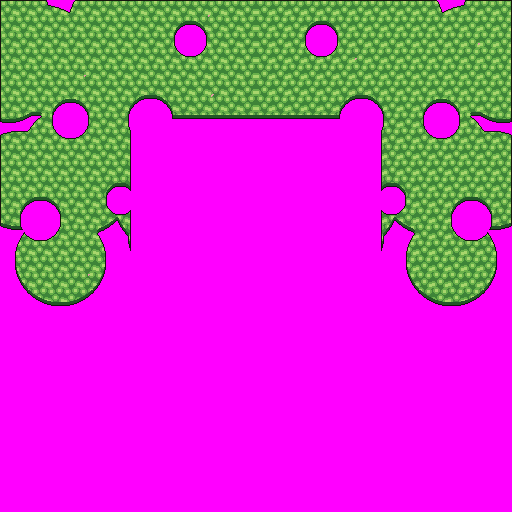
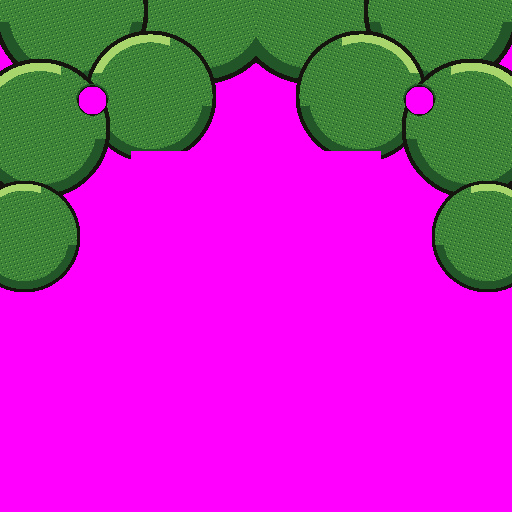
v0.16.0 art: a Deku-style face, puffy leaves, the doorway shut
Caleb's review: the leaves and the face looked weird; think Great Deku Tree.
The healed trunk's opening grows shut and the doorway into the hollow closes
for good. Bark's face is big and bold: deep hollow eyes with a glint, heavy
brows, a thick nose, a drooping mossy moustache; the camera in the west looks
up a little more so it fits. The leaves are big rounded puffs with outlines,
a light rim on top and shadow underneath. The dead tree loses its rot holes,
which read as eyes before the fight.

diff --git a/rootflow/tools/make_art.py b/rootflow/tools/make_art.py
@@ -1512,12 +1512,11 @@ def make_trunk():
             for x in range(x0 + (y - y0) // 9, x0 + w + (y - y0) // 9):
                 if px[y][x]:
                     px[y][x] = 12 if (x + y) % 7 else 9
-    for cx, cy, rx, ry in ((214, 150, 10, 14), (322, 236, 8, 11)):
-        blot(px, cx, cy, rx + 3, ry + 3, 11, 1)
-        blot(px, cx, cy, rx, ry, 10, 10)
-        for y in range(int(cy + ry), int(cy + ry + 14)):    # ooze running down
-            if px[y][cx]:
-                px[y][cx] = px[y][cx + 1] = 11
+    for x0, y0 in ((214, 140), (322, 220)):              # rot oozing down the bark (no holes: they read as eyes)
+        for y in range(y0, y0 + 40):
+            for x in (x0 + (y - y0) // 13, x0 + 1 + (y - y0) // 13):
+                if px[y][x]:
+                    px[y][x] = 11 if (y - y0) % 9 else 10
     for cx, cy, w in ((168, 104, 12), (288, 176, 12)):
         shelf(px, cx, cy, w)
     for y in range(BASE_Y - 30, S):                      # the opening at its foot
@@ -1635,7 +1634,7 @@ ALIVE_PAL = [
     (236, 150, 170),  # 14 blossom
     (0, 0, 0),
 ]
-FACE_C = (256, 246)                                        # Bark's eyes, just above the opening (his mouth)
+FACE_C = (256, 220)                                        # Bark's eyes (his face runs down to the trunk's base)
 
 
 def make_tree_alive():
@@ -1652,25 +1651,43 @@ def make_tree_alive():
                 px[y][x] = 2
             elif c == 13:
                 px[y][x] = 12
+    for y in range(BASE_Y - 40, 512):                         # the opening grows shut: bark again
+        for x in range(TREE_CX - 30, TREE_CX + 30):
+            if px[y][x] in (7, 1) and abs(x - TREE_CX) < 26 and y < trunk_bottom(x) - 2:
+                px[y][x] = bark_color(x, y)
     fx, fy = FACE_C
-    for sx in (-1, 1):                                       # the eyes: deep knotholes, looking out
-        ex = fx + sx * 52
-        for y in range(fy - 13, fy + 14):
-            for x in range(ex - 16, ex + 17):
-                d = ((x - ex) / 15) ** 2 + ((y - fy) / 11) ** 2
+    for sx in (-1, 1):
+        ex = fx + sx * 50
+        for y in range(fy - 16, fy + 17):                    # big, deep, hollow eye sockets
+            for x in range(ex - 28, ex + 29):
+                u, v = (x - ex) / 27, (y - fy) / 14
+                d = u * u + (v + 0.3 * u * sx) ** 2          # drooping toward the outside
                 if d < 1:
-                    px[y][x] = 1 if d > 0.78 else 13 if d > 0.28 else 1
-        for y in range(fy - 3, fy + 5):                      # pupils, a little to the middle
-            for x in range(ex - sx * 4 - 3, ex - sx * 4 + 4):
+                    px[y][x] = 1 if d > 0.85 else 2 if d > 0.7 and v < 0 else 7
+        for y in range(fy - 3, fy + 3):                      # a glint deep inside
+            for x in range(ex - sx * 6 - 2, ex - sx * 6 + 3):
+                px[y][x] = 13
+        for x in range(ex - 34, ex + 35):                    # long, heavy brows
+            top = fy - 28 + (sx * (ex - x)) // 9          # only a little lower toward the middle: kinder
+            for t in range(11):
+                y = top + t
+                px[y][x] = 1 if t in (0, 10) else 6 if t < 3 else 4 if t < 6 else 3 if t < 9 else 2
+    for y in range(fy - 10, fy + 54):                          # a thick nose, wider toward its tip
+        w = 8 + max(0, y - fy - 14) // 4
+        for x in range(fx - w, fx + w + 1):
+            px[y][x] = 1 if abs(x - fx) >= w else 6 if x < fx - w // 2 else 4 if x < fx + w // 3 else 2
+    for sx in (-1, 1):                                         # nostrils
+        for y in range(fy + 48, fy + 53):
+            for x in (fx + sx * 9, fx + sx * 10):
                 px[y][x] = 1
-        for x in range(ex - 19, ex + 20):                    # level brows: heavy, not angry
-            for t in range(4):
-                y = fy - 16 - t + (1 if sx * (x - ex) > 10 else 0)
-                px[y][x] = 5 if t == 0 else 2
-    for y in range(BASE_Y - 34, BASE_Y - 22):                # a lip of bark over the opening: his mouth
-        for x in range(TREE_CX - 30, TREE_CX + 31):
-            if abs(x - TREE_CX) < 30 - (BASE_Y - 22 - y):
-                px[y][x] = 4 if y < BASE_Y - 28 else 2
+    for y in range(fy + 44, fy + 92):                          # a bushy, mossy moustache, drooping at the ends
+        for x in range(fx - 74, fx + 75):
+            u = (x - fx) / 74
+            top = fy + 52 - int((1 - u * u) * 6) + int(abs(u) * 10)
+            bot = fy + 66 + int(abs(u) ** 1.5 * 22)
+            if top <= y <= bot:
+                edge = y == top or y == bot or abs(u) > 0.98
+                px[y][x] = 1 if edge else 9 if ((x % 8) // 2 + y) % 4 == 0 else 12   # repeats every 8 px
     out = Image.new("P", (512, 512), 0)
     out.putpalette([c for rgb in ALIVE_PAL for c in rgb])
     out.putdata([v for row in px for v in row])
@@ -1697,50 +1714,52 @@ def leaf_texture(x, y):
 
 
 def make_leaves():
-    """The healed tree's leaves: a solid, textured mass over the top and down both sides, with an
-    irregular lobed outline and several holes where you see the ground. Left half mirrored."""
-    import math
+    """The healed tree's crown, like the Great Deku Tree's: big rounded puffs of leaves overlapping
+    (upper ones first, each later puff drawn over with its own outline), a flat green body with a
+    few leaf flecks (repeating every 16 px), a light rim on top and a shadow band underneath, and
+    several holes you see the ground through. Left half drawn; the right half mirrors it."""
     S = 512
     px = [[0] * S for _ in range(S)]
-    rng = random.Random(4646)
-    lobes = []
-    for _ in range(60):                                       # the leaf mass, as overlapping lobes
-        a = rng.uniform(math.pi * 0.5, math.pi * 1.25)
-        r = rng.uniform(40, 250)
-        x = TREE_CX + r * math.cos(a)
-        y = 70 + r * math.sin(a) * 0.9
-        lobes.append((x, y, rng.uniform(28, 52)))
-    lobes += [(TREE_CX - 40, 40, 70), (TREE_CX - 130, 30, 60), (40, 60, 56), (20, 180, 50), (60, 260, 46)]
-    holes = [(150, 120, 22), (70, 120, 18), (190, 40, 16), (40, 220, 20), (120, 200, 14)]
-    for y in range(S):
-        for x in range(256):
-            inside = any((x - lx) ** 2 + (y - ly) ** 2 < lr * lr for lx, ly, lr in lobes)
-            if not inside or y > 330:
-                continue
-            if x > TREE_CX - TRUNK_HALF - 6 and y > 118:            # keep Bark's face in view
-                continue
-            if any((x - hx) ** 2 + (y - hy) ** 2 < hr * hr for hx, hy, hr in holes):
-                continue
-            px[y][x] = leaf_texture(x, y)
-    for y in range(S):                                        # an outline and shade at every edge
-        for x in range(256):
-            if not px[y][x]:
-                continue
-            edge = any(not (0 <= x + dx < 256 and 0 <= y + dy < S) or px[y + dy][x + dx] == 0
-                       for dx, dy in ((1, 0), (-1, 0), (0, 1), (0, -1)) if not (x + dx == 256))
-            if edge:
-                px[y][x] = 1
-    for y in range(S - 1, 0, -1):                             # a darker underside on each lobe
-        for x in range(256):
-            if px[y][x] in (9, 10, 11) and y + 3 < S and px[y + 3][x] in (0, 1):
-                px[y][x] = 8
+    puffs = [   # (x, y, radius), left half; drawn top to bottom
+        (200, 4, 80), (70, 10, 78),
+        (150, 96, 66), (40, 128, 70),
+        (24, 236, 56),
+    ]
+    for cx, cy, r in sorted(puffs, key=lambda p: p[1]):
+        for y in range(max(0, cy - r), min(S, cy + r + 1)):
+            for x in range(max(0, cx - r), min(256, cx + r + 1)):
+                d = ((x - cx) ** 2 + (y - cy) ** 2) ** 0.5 / r
+                if d >= 1:
+                    continue
+                if x > TREE_CX - TRUNK_HALF - 6 and y > 150:          # keep Bark's face in view
+                    continue
+                ny = (y - cy) / r
+                nx = (x - cx) / r
+                if d > 0.94:
+                    c = 1
+                elif d > 0.8 and ny > 0.15:
+                    c = 8                                            # shadow under the puff
+                elif d > 0.82 and ny < -0.35 and nx < 0.3:
+                    c = 11                                           # light along the top
+                else:
+                    f = ((x % 16) * 5 + (y % 16) * 3) % 17
+                    c = 10 if f == 0 else 8 if f == 9 else 9
+                px[y][x] = c
+    for hx, hy, hr in ((92, 100, 14),):                                # a hole
+        for y in range(hy - hr - 2, hy + hr + 3):
+            for x in range(hx - hr - 2, hx + hr + 3):
+                if not (0 <= x < 256 and 0 <= y < S) or not px[y][x]:
+                    continue
+                d = ((x - hx) ** 2 + (y - hy) ** 2) ** 0.5
+                if d < hr:
+                    px[y][x] = 0
+                elif d < hr + 1.2:
+                    px[y][x] = 1
+                elif d < hr + 3 and y < hy:
+                    px[y][x] = 8                                     # the hole's shadowed upper edge
     for y in range(S):
         for x in range(256):
             px[y][mirror_x(x)] = px[y][x]
-    for k in range(18):                                       # a few blossoms (not mirrored)
-        bx, by = rng.randrange(20, 492), rng.randrange(10, 300)
-        if px[by][bx] in (9, 10):
-            px[by][bx] = px[by][bx + 1] = px[by + 1][bx] = 14
     img = Image.new("P", (S, S), 0)
     img.putpalette([c for rgb in ALIVE_PAL for c in rgb])
     img.putdata([v for row in px for v in row])

diff --git a/rootflow/src/main.c b/rootflow/src/main.c
@@ -2487,7 +2487,7 @@ static void open_door(void) {
 }
 
 // The healed tree's whole region turns green at once: dead ground grows grass and flowers, dead
-// trees and stumps grow back, the brambles are gone.
+// trees and stumps grow back, the brambles are gone, and the opening into the hollow closes.
 static void revive_world(void) {
     u8 *m = maps[WEST];
     for (s32 i = 0; i < MAP_W * MAP_H; i++) {
@@ -2499,6 +2499,8 @@ static void revive_world(void) {
         else if (t == CHEST_OPEN) m[i] = CHEST_OPEN_GRASS;
         else if (t == WRECK) m[i] = WRECK_GRASS;
     }
+    for (s32 y = DOOR_Y; y <= DOOR_Y + 1; y++)                // the opening grows shut (Caleb: no way back in)
+        for (s32 x = DOOR_X; x <= DOOR_X + 1; x++) m[y * MAP_W + x] = TRUNK_BLOCK;
 }
 
 // Gloomheart beaten: out of the hollow, the tree shakes, wakes green, Bark lives in it again and
@@ -2583,7 +2585,7 @@ static void check_spring(void) {
 
 static void update_camera(void) {
     cam_x = px + 8 - SCREEN_W / 2;
-    cam_y = py + 8 - SCREEN_H / 2 - (cur_area == WEST ? 48 : 0);   // look up at the Great Tree (and Bark's face)
+    cam_y = py + 8 - SCREEN_H / 2 - (cur_area == WEST ? 72 : 0);   // look up at the Great Tree (and Bark's face)
     if (cam_x < 0) cam_x = 0;
     if (cam_y < 0) cam_y = 0;
     if (cam_x > WORLD_PX - SCREEN_W) cam_x = WORLD_PX - SCREEN_W;
